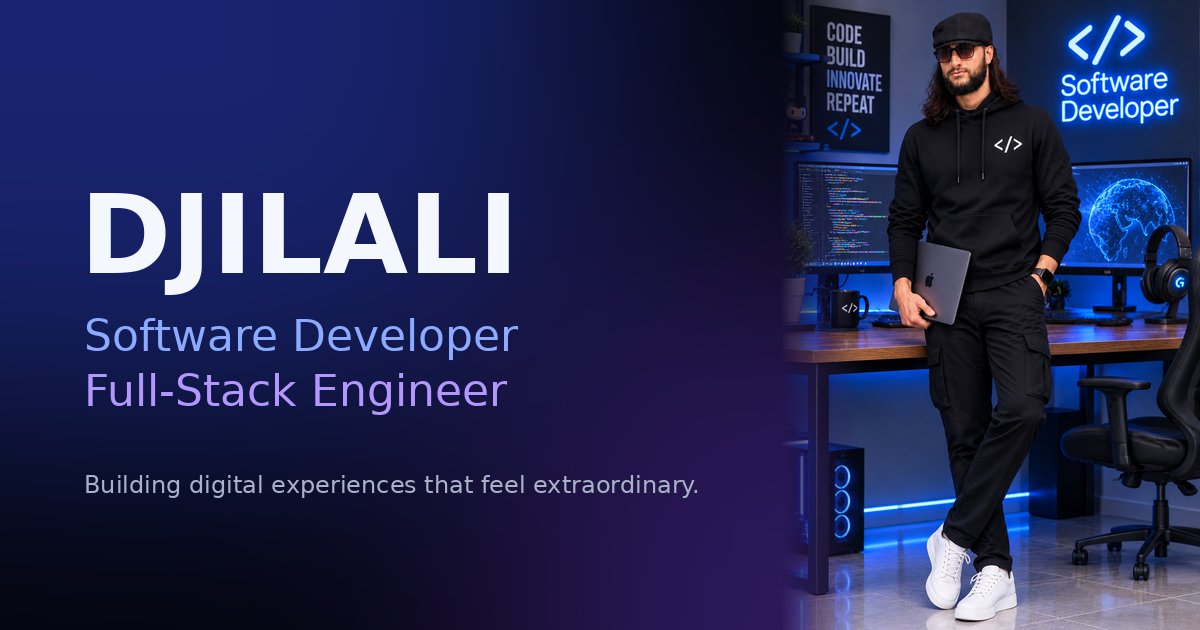
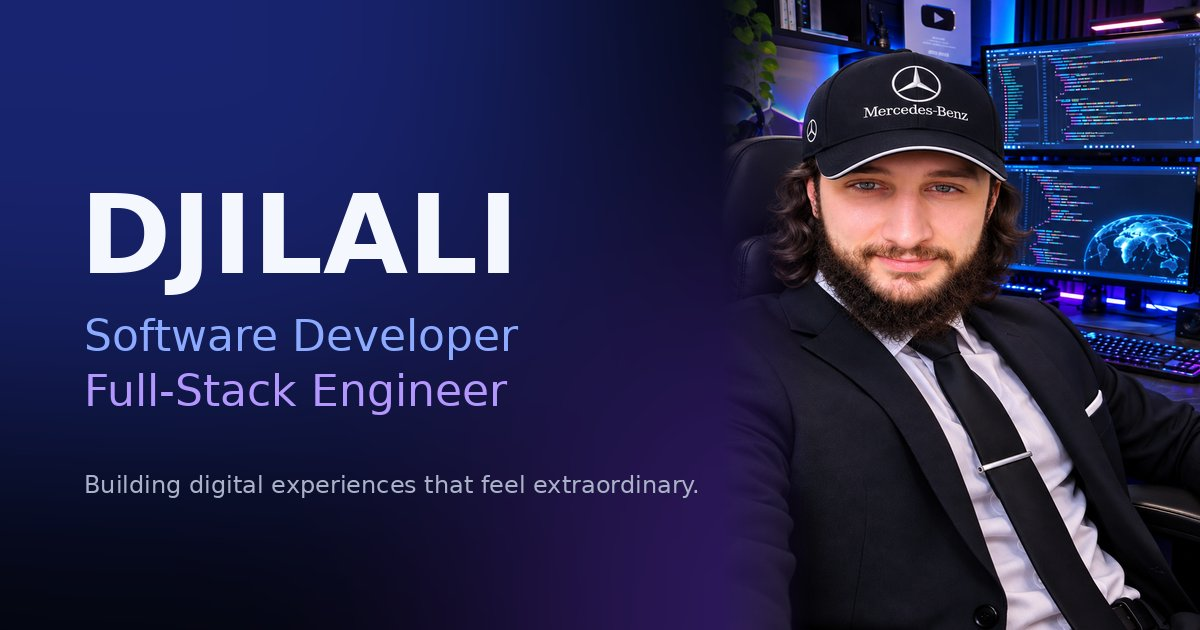
Portfolio: new official photo (black suit at the desk)
Replaces the portrait everywhere it is used: hero desk scene, About section,
avatar, Apple touch icon and the Open Graph share image (same file names).
Portrait files are now 4:5 (800x1000, 480x600); alt text updated in EN/FR/AR.

Claude-Session: https://claude.ai/code/session_01VsgzVYMpteLxfMJM79bojW

Changed region(s): [[0.6167, 0.0, 1.0, 1.0]]

diff --git a/portfolio/src/components/sections/About.tsx b/portfolio/src/components/sections/About.tsx
@@ -26,7 +26,7 @@ export function About({ t }: { t: Pick<Dictionary, 'about' | 'site'> }) {
                 height={site.portrait.height}
                 loading="lazy"
                 decoding="async"
-                className="aspect-[4/5] w-full object-cover object-[50%_18%] transition-transform duration-[1.4s] ease-[cubic-bezier(.16,1,.3,1)] group-hover:scale-[1.03]"
+                className="aspect-[4/5] w-full object-cover object-top transition-transform duration-[1.4s] ease-[cubic-bezier(.16,1,.3,1)] group-hover:scale-[1.03]"
               />
             </picture>
             <div aria-hidden className="absolute inset-x-0 bottom-0 h-1/2 bg-gradient-to-t from-bg via-bg/40 to-transparent" />

diff --git a/portfolio/src/components/hero/desk/Portrait.tsx b/portfolio/src/components/hero/desk/Portrait.tsx
@@ -14,9 +14,9 @@ export function Portrait({ p, role, online }: { p: MotionValue<number>; role: st
           src={asset(site.portrait.srcSmall)}
           alt=""
           width={480}
-          height={720}
+          height={600}
           fetchPriority="high"
-          className="size-full object-cover object-[50%_14%]"
+          className="size-full object-cover object-top"
         />
         <div className="absolute inset-x-0 bottom-0 h-1/3 bg-gradient-to-t from-bg/80 to-transparent" />
         <div className="absolute bottom-[5%] right-[5%] flex max-w-[70%] items-center gap-[2cqw] rounded-[1.6cqw] border border-white/15 bg-bg/70 px-[2.4cqw] py-[1.6cqw] backdrop-blur-md">

diff --git a/portfolio/src/content/locales/ar.ts b/portfolio/src/content/locales/ar.ts
@@ -12,7 +12,7 @@ const ar: Dictionary = {
     title: 'مطوّر برمجيات | مهندس Full-Stack',
     role: 'مطوّر Full-Stack',
     tagline: 'كود نظيف، وهندسة مبدعة، وواجهات سلسة في الاستخدام.',
-    portraitAlt: 'جيلالي، مطوّر برمجيات، يقف في مكان عمله ويحمل حاسوباً محمولاً',
+    portraitAlt: 'جيلالي، مطوّر برمجيات، ببدلة سوداء، جالس إلى مكتبه أمام شاشات الكود',
     availability: 'متاح لمشاريع مختارة',
     location: 'عن بُعد · في كل أنحاء العالم',
     online: 'متصل',

diff --git a/portfolio/src/content/locales/fr.ts b/portfolio/src/content/locales/fr.ts
@@ -12,7 +12,7 @@ const fr: Dictionary = {
     title: 'Développeur logiciel | Ingénieur Full-Stack',
     role: 'Développeur Full-Stack',
     tagline: 'Un code propre, une ingénierie créative et des interfaces d’une grande fluidité.',
-    portraitAlt: 'Djilali, développeur logiciel, debout dans son espace de travail, un ordinateur portable à la main',
+    portraitAlt: 'Djilali, développeur logiciel, en costume noir, assis à son bureau devant des écrans de code',
     availability: 'Disponible pour des projets choisis',
     location: 'À distance · Partout dans le monde',
     online: 'En ligne',

diff --git a/portfolio/src/content/locales/en.ts b/portfolio/src/content/locales/en.ts
@@ -10,7 +10,7 @@ const en = {
     title: 'Software Developer | Full-Stack Engineer',
     role: 'Full-Stack Developer',
     tagline: 'Clean code, creative engineering and interfaces that feel effortless.',
-    portraitAlt: 'Djilali, software developer, standing in his workspace holding a laptop',
+    portraitAlt: 'Djilali, software developer, in a black suit, seated at his desk in front of code screens',
     availability: 'Available for select projects',
     location: 'Remote · Worldwide',
     online: 'Online',

diff --git a/portfolio/src/content/site.ts b/portfolio/src/content/site.ts
@@ -22,7 +22,7 @@ export const site = {
     fallback: '/img/portrait.jpg',
     avatar: '/img/avatar.webp',
     width: 800,
-    height: 1200,
+    height: 1000,
   },
 }
 
